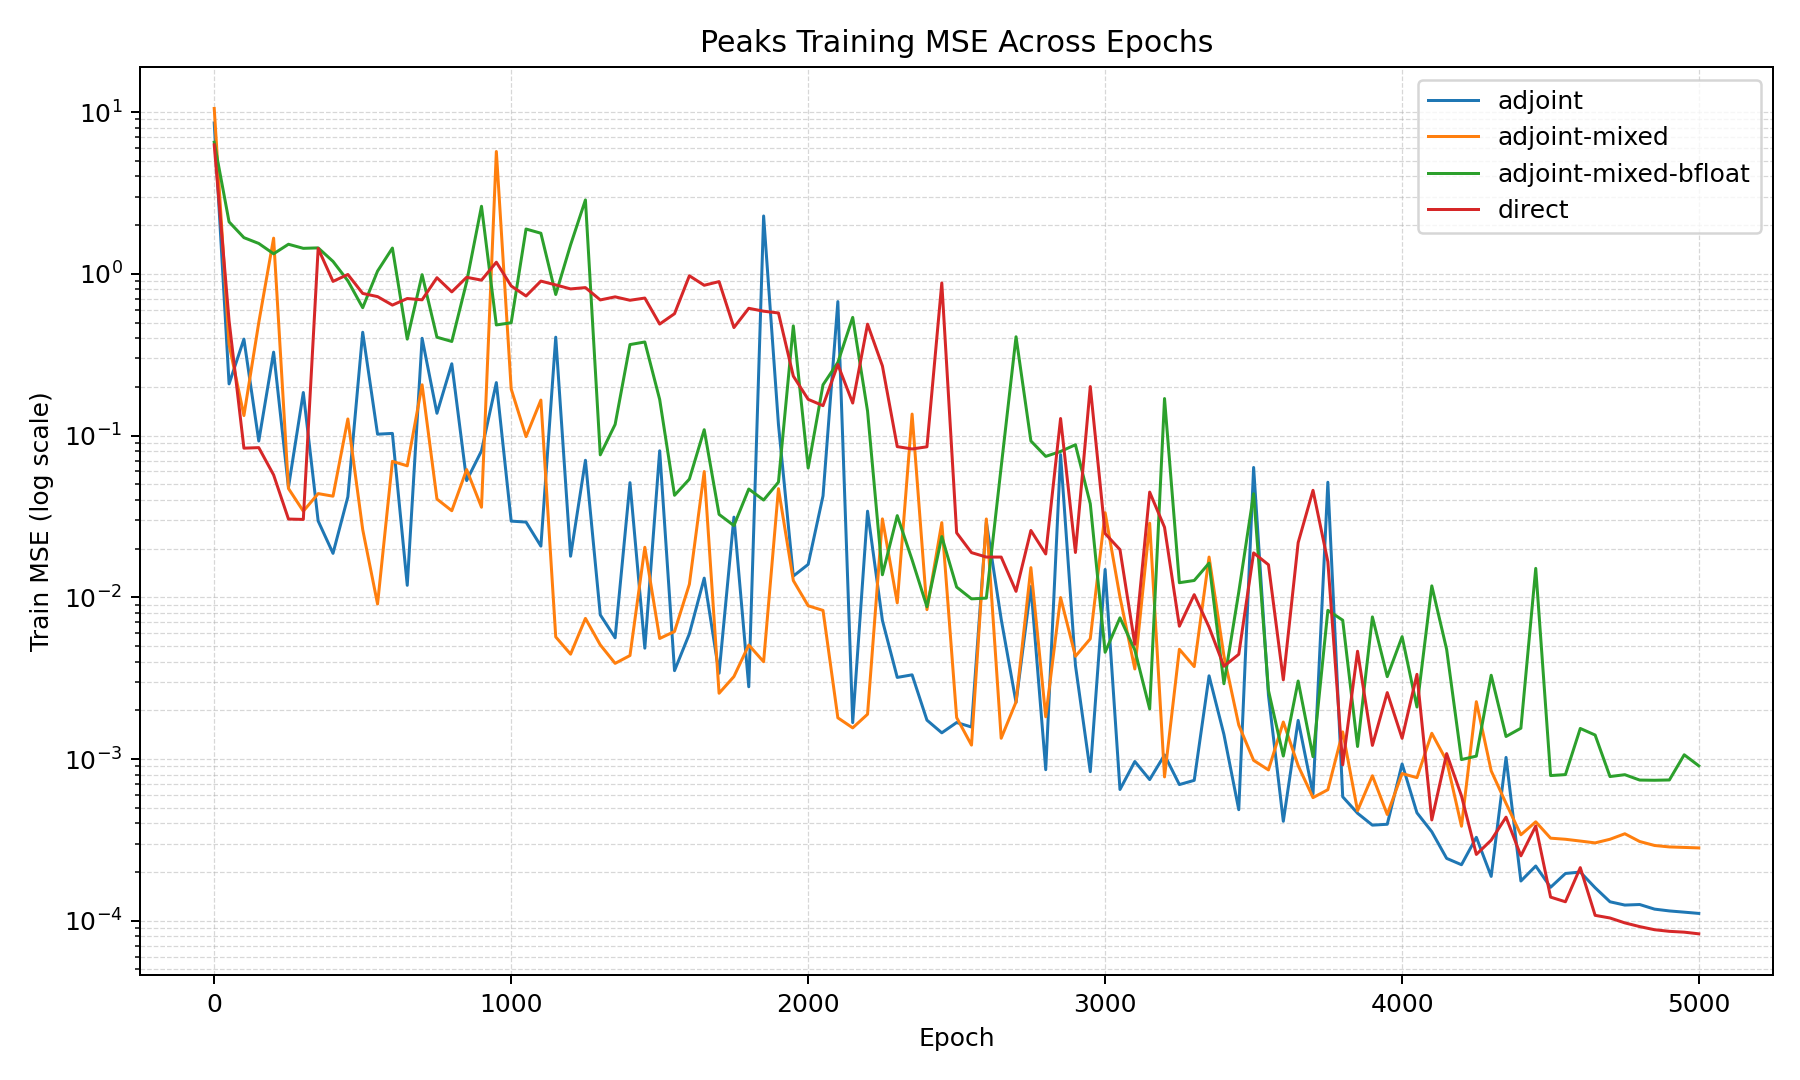
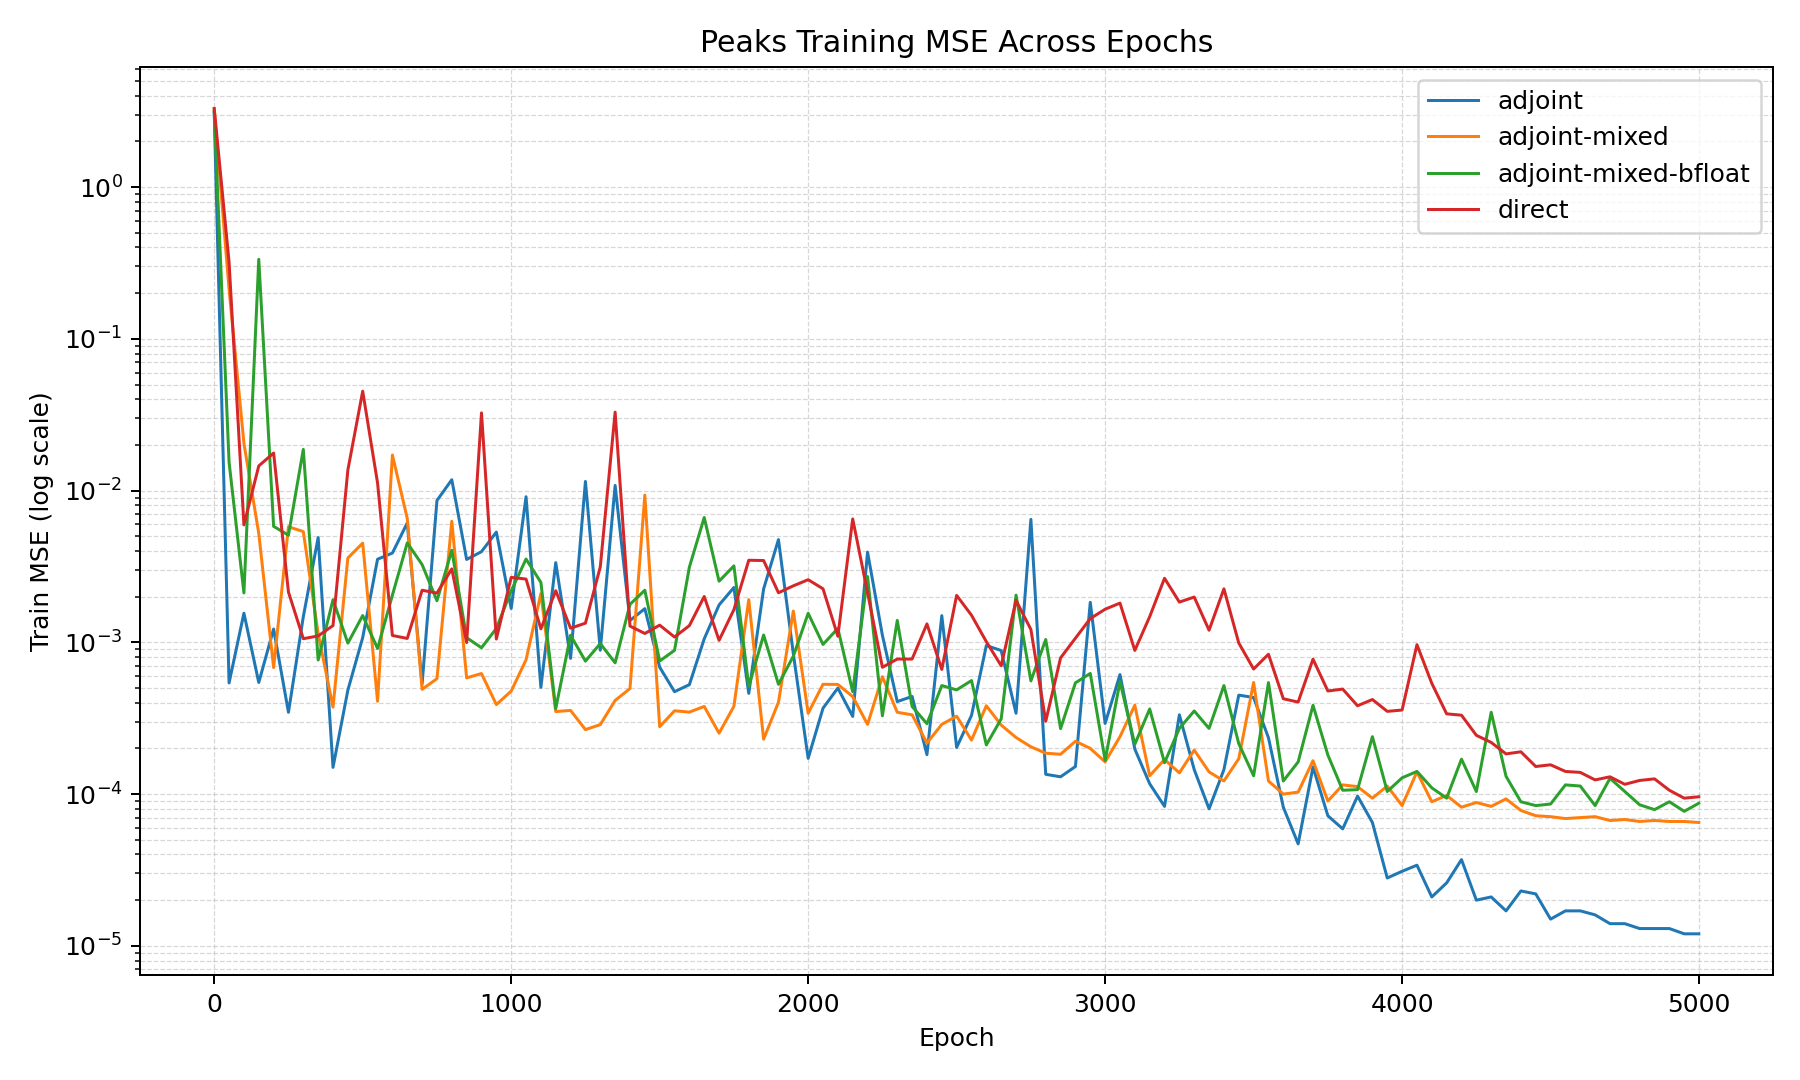
Updated Peaks training summaries

diff --git a/examples/Peaks/Evaluate Logs/peaks_final_metrics.md b/examples/Peaks/Evaluate Logs/peaks_final_metrics.md
@@ -3,11 +3,13 @@
 ```text
 mode                 | final_mse | best_mse | train_mem_mb | train_time_s | infer_time_s | infer_mem_mb
 ---------------------+-----------+----------+--------------+--------------+--------------+-------------
-adjoint              | 0.00011   | 0.00011  | 708.58       | 6262.00      | 0.0100       | 56.20       
-adjoint-mixed        | 0.00028   | 0.00028  | 483.23       | 4823.64      | 0.0646       | 45.82       
-adjoint-mixed-bfloat | 0.000914  | 0.000687 | 479.10       | 3432.30      | 0.0435       | 45.82       
-direct               | 0.0001    | 0.0001   | 1038.70      | 5804.10      | 0.0232       | 64.99       
+adjoint              | 2.1e-05   | 2.1e-05  | 542.15       | 5834.02      | 0.0093       | 47.43       
+adjoint-mixed        | 7.2e-05   | 7.1e-05  | 293.40       | 4311.43      | 0.0940       | 36.32       
+adjoint-mixed-bfloat | 0.000161  | 0.000144 | 293.40       | 2947.32      | 0.0618       | 36.32       
+direct               | 0.000135  | 0.000132 | 1038.70      | 5576.26      | 0.0137       | 36.20       
 ```
+
+Memory savings: $71.8\%$ between direct and adjoint MP (adjoint MP uses less)
 
 Log files:
 - adjoint: adj_full_training.log
@@ -29,9 +31,11 @@ Experiment Parameters:
     - Epochs: 5000
     - Batch size: 10,000
     - Total samples: 200,000
-    - Initial LR: 0.1
+    - Initial LR: 0.01
     - Weight decay: 5e-4
     - GPU: NVIDIA H200 (Palmetto)
+
+Parameter count: 198,401
 
 Note: 
 - adjoint mode uses adjoint method for gradients but in high precision
@@ -41,5 +45,8 @@ Note:
     
 Training Plot (every 50 epochs):
 ![Training plots for peaks full experiment](./peaks_train_mse_logscale.png "Peaks full training curves")
+
+Testing Plot (every 50 epochs):
+![Testing plots for peaks full experiment](./peaks_test_mse_logscale.png "Peaks full testing curves")
 
 
